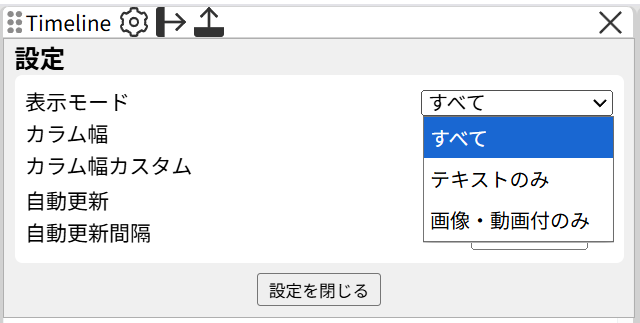
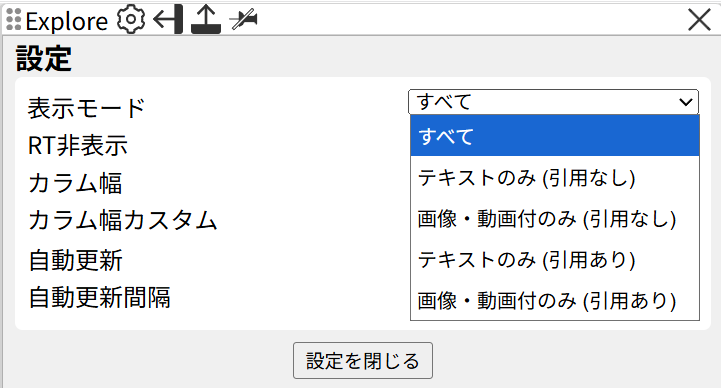
表示モードの項目を更新

diff --git a/docs/common/column-settings.md b/docs/common/column-settings.md
@@ -19,11 +19,37 @@ sidebar_position: 3
 
 Timeline カラムや Explore カラム（検索ページ）で、表示するポストの種類を絞り込めます。
 
-| モード | 説明 |
-|---|---|
-| **すべて**（デフォルト） | すべてのポストを表示します |
-| **テキストのみ** | 画像・動画のないテキストだけのポストを表示します |
-| **画像・動画付のみ** | メディアが添付されたポストだけを表示します |
+### モード一覧
+
+| モード | 内容 | 引用ポストの扱い |
+|---|---|---|
+| **すべて**（デフォルト） | すべてのポストを表示します | すべて表示します |
+| **テキストのみ（引用なし）** | 画像・動画のないテキストだけのポストを表示します | 中身に関係なく非表示にします |
+| **画像・動画付のみ（引用なし）** | 画像・動画が添付されたポストだけを表示します | 中身に関係なく非表示にします |
+| **テキストのみ（引用あり）** | テキストだけのポストを、引用ポストも含めて表示します | 投稿本体・引用元のどちらにも画像・動画がなければ表示します |
+| **画像・動画付のみ（引用あり）** | 画像・動画付きのポストを、引用ポストも含めて表示します | 投稿本体・引用元のどちらかに画像・動画があれば表示します |
+
+:::tip[「引用なし」と「引用あり」の違い]
+「引用なし」のモードでは、引用ポストは中身に関係なくすべて非表示になります。  
+引用ポストも絞り込みの対象にしたい場合は、「引用あり」のモードを選んでください。
+:::
+
+:::note[記事の扱い]
+記事は、カバー画像の有無に関係なく「テキストのみ」として扱います。
+:::
+
+### 投稿の種類ごとの表示
+
+| 投稿の種類 | テキストのみ（引用なし） | 画像・動画付のみ（引用なし） | テキストのみ（引用あり） | 画像・動画付のみ（引用あり） |
+|---|---|---|---|---|
+| テキストのみの通常投稿 | 表示 | 非表示 | 表示 | 非表示 |
+| 画像・動画付きの通常投稿 | 非表示 | 表示 | 非表示 | 表示 |
+| テキストのみの引用（引用元もテキストのみ） | 非表示 | 非表示 | 表示 | 非表示 |
+| 引用元にだけ画像・動画がある投稿 | 非表示 | 非表示 | 非表示 | 表示 |
+| 画像・動画がある引用投稿 | 非表示 | 非表示 | 非表示 | 表示 |
+| 記事の投稿（本文・カバー画像の有無を問わない） | 表示 | 非表示 | 表示 | 非表示 |
+| 記事を引用した投稿 | 非表示 | 非表示 | 表示 | 非表示 |
+| 画像・動画付きで記事を引用した投稿 | 非表示 | 非表示 | 非表示 | 表示 |
 
 :::tip[「画像・動画付のみ」の活用例]
 フォロワーのユーザーページでイラストや写真だけをまとめてチェックしたい時に活用できます。
